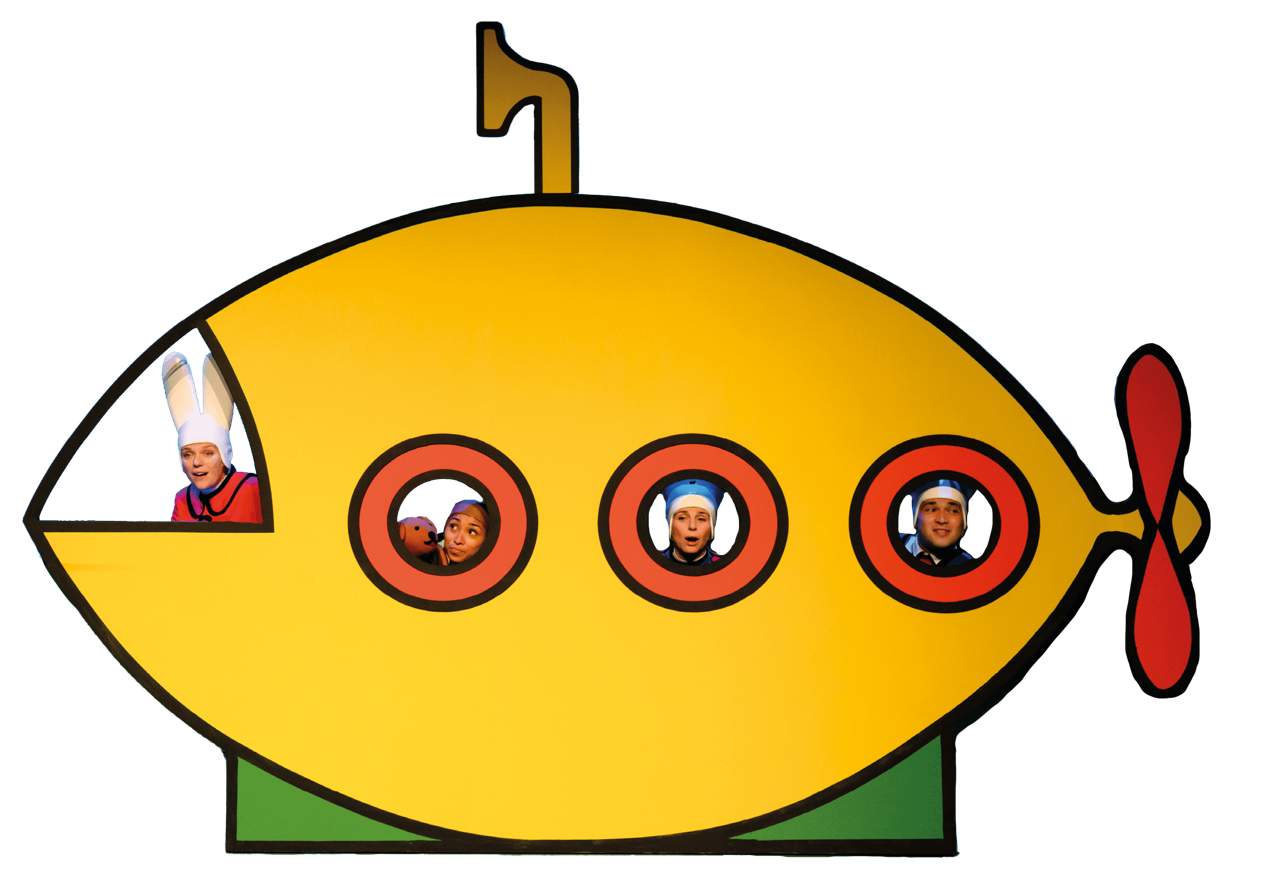
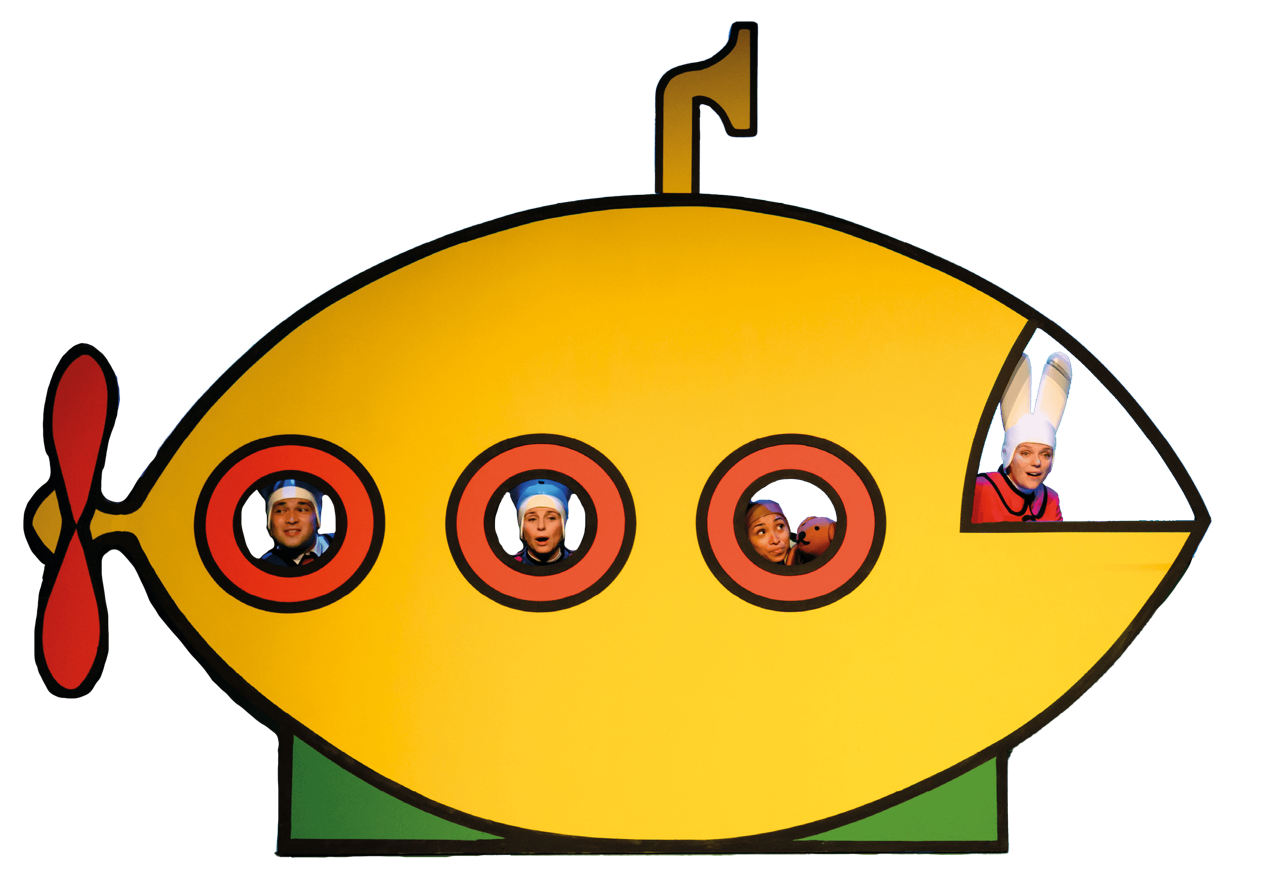
changed scroll trigger to div

diff --git a/server/components/submarine/submarine.js b/server/components/submarine/submarine.js
@@ -5,19 +5,32 @@ import { MotionPathPlugin } from "https://cdn.jsdelivr.net/npm/gsap@3.12.2/Motio
 gsap.registerPlugin(ScrollTrigger, MotionPathPlugin);
 
 const submarine = document.querySelector(".submarine");
+const submarineContainer = document.querySelector(".submarine-container");
 const bubbleContainer = document.querySelector(".bubble-container");
-
 let lastScrollY = window.scrollY;
 let isFlipped = true;
 
-// GSAP timeline for motion path animation
-gsap.to(".submarine", {
+const triggerElement = document.querySelector("#dynamicGrid");
+const triggerHeight = triggerElement.offsetHeight;
+
+// Main animation timeline
+const tl = gsap.timeline({
   scrollTrigger: {
-    trigger: "body",
-    start: "top top",
-    end: "bottom bottom",
-    scrub: true,
+    trigger: "#dynamicGrid",
+    start: "top center",
+    end: `+=${triggerHeight * 2}`,
+    scrub: 1,
+    markers: true,
+    onToggle: (self) => {
+      gsap.to(submarineContainer, {
+        opacity: self.isActive ? 1 : 0,
+        duration: 0.3,
+      });
+    },
   },
+});
+
+tl.to(submarineContainer, {
   motionPath: {
     path: "#wavePath",
     align: "#wavePath",
@@ -25,6 +38,7 @@ gsap.to(".submarine", {
     autoRotate: true,
   },
   ease: "none",
+  duration: 1,
 });
 
 window.addEventListener("scroll", () => {
@@ -33,47 +47,70 @@ window.addEventListener("scroll", () => {
 
   if (scrollingUp !== isFlipped) {
     isFlipped = scrollingUp;
-
     gsap.set(submarine, {
-      scaleX: isFlipped ? 1 : -1,
-      scaleY: isFlipped ? -1 : -1,
+      scaleX: isFlipped ? -1 : 1,
+      scaleY: -1,
     });
   }
 
-  if (Math.abs(currentScrollY - lastScrollY) > 5) {
+  if (
+    Math.abs(currentScrollY - lastScrollY) > 5 &&
+    parseFloat(getComputedStyle(submarineContainer).opacity) > 0
+  ) {
     createBubbleAtTail();
-    lastScrollY = currentScrollY;
   }
+
+  lastScrollY = currentScrollY;
 });
 
-// Bubble creation function
 function createBubbleAtTail() {
-  if (!submarine || !bubbleContainer) return;
+  console.log("createBubbleAtTail called");
 
-  const rect = submarine.getBoundingClientRect();
+  if (!submarine || !bubbleContainer) {
+    console.log("Missing elements:", {
+      submarine: !!submarine,
+      bubbleContainer: !!bubbleContainer,
+    });
+    return;
+  }
+
+  const rect = submarineContainer.getBoundingClientRect();
+  console.log("Submarine rect:", rect);
 
   const bubble = document.createElement("div");
   bubble.classList.add("bubble");
 
   // Random bubble size
-  const size = 50 * Math.random() + 25;
+  const size = Math.random() * 25 + 15;
   bubble.style.width = `${size}px`;
   bubble.style.height = `${size}px`;
 
   // Position at the submarine's tail
-  const offsetX = rect.left + rect.width * 0.85;
-  const offsetY = rect.top + rect.height * 0.5;
+  const offsetX = rect.left + rect.width * (isFlipped ? 0.15 : 0.85);
+  const offsetY = rect.top + rect.height * 0.6;
+
+  console.log("Bubble position:", { offsetX, offsetY, isFlipped });
+
   bubble.style.left = `${offsetX}px`;
   bubble.style.top = `${offsetY}px`;
 
-  // Set direction of animation via CSS variable
-  bubble.style.setProperty(
-    "--bubble-move",
-    isFlipped ? "translate(200px, -200px)" : "translate(-200px, -200px)"
-  );
+  // Set direction of animation
+  const moveDirection = isFlipped
+    ? "translate(-200px, -200px)"
+    : "translate(200px, -200px)";
+  bubble.style.setProperty("--bubble-move", moveDirection);
+
+  // Add some visual debugging
+  bubble.style.backgroundColor = "rgba(173, 216, 230, 0.9)"; // More visible
 
   bubbleContainer.appendChild(bubble);
+  console.log("Bubble added to container");
 
   // Remove bubble after animation
-  setTimeout(() => bubble.remove(), 2000);
+  setTimeout(() => {
+    if (bubble.parentNode) {
+      bubble.remove();
+      console.log("Bubble removed");
+    }
+  }, 2000);
 }

diff --git a/server/components/submarine/submarine.css b/server/components/submarine/submarine.css
@@ -4,13 +4,26 @@
   width: 140dvw;
   display: flex;
   justify-content: center;
+  z-index: 9999999 !important;
+  overflow-x: hidden;
 }
+
 .submarine-container {
   position: fixed;
   width: 20vw;
   max-width: 400px;
   aspect-ratio: 1;
   pointer-events: none;
+  opacity: 0;
+  top: 50%;
+  left: 50%;
+  transform: translate(-50%, -50%);
+}
+
+.submarine-container img {
+  width: 400px;
+  aspect-ratio: 1;
+  object-fit: contain;
 }
 
 .submarine {
@@ -25,7 +38,7 @@
   width: 100%;
   height: 100%;
   pointer-events: none;
-  z-index: -1;
+  z-index: 9999999 !important;
 }
 
 .bubble {

diff --git a/client/index.css b/client/index.css
@@ -19,3 +19,4 @@
 @import "../server/components/project-item/project-item.css";
 @import "../server/components/text-slider/text-slider.css";
 @import "../server/components/break-glass/break-glass.css";
+@import "../server/components/submarine/submarine.css";
